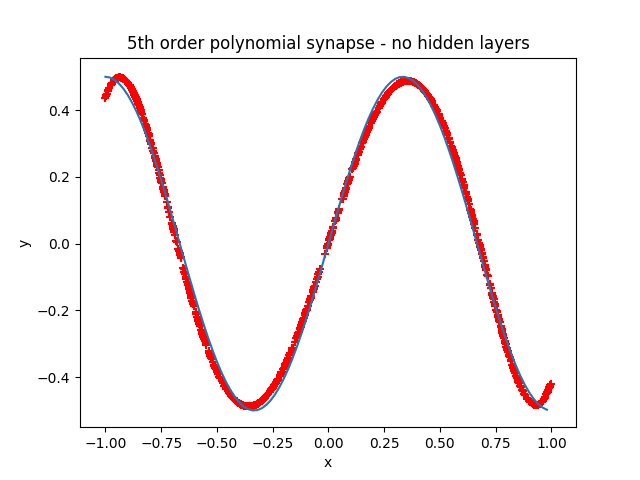
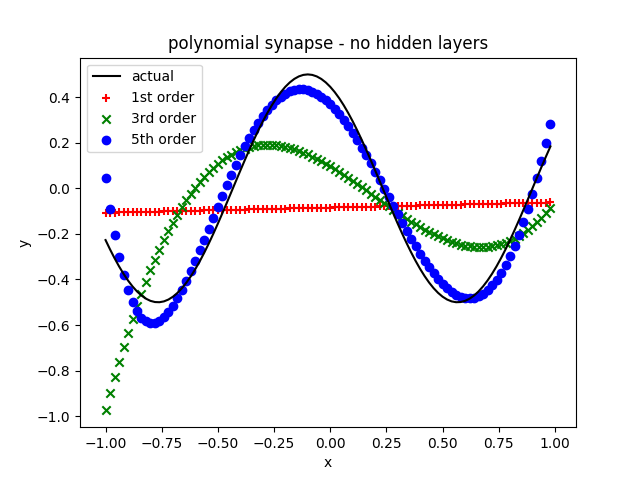
Making plot match.

diff --git a/functionExample.py b/functionExample.py
@@ -40,7 +40,7 @@ modelSet = [
 colorIndex = ['red', 'green', 'blue', 'purple','black']
 symbol = ['+','x','o','v','.']
 
-thisModelSet = modelSetD
+thisModelSet = modelSet
 
 for i in range(0, len(thisModelSet)) :
 
@@ -52,7 +52,7 @@ for i in range(0, len(thisModelSet)) :
                 loss='mean_squared_error',
                 metrics=['accuracy'])
 
-    model.fit(xTrain, yTrain, epochs=6, batch_size=1)
+    model.fit(xTrain, yTrain, epochs=40, batch_size=1)
     model.evaluate(xTrain, yTrain)
 
     predictions = model.predict(xTest)
